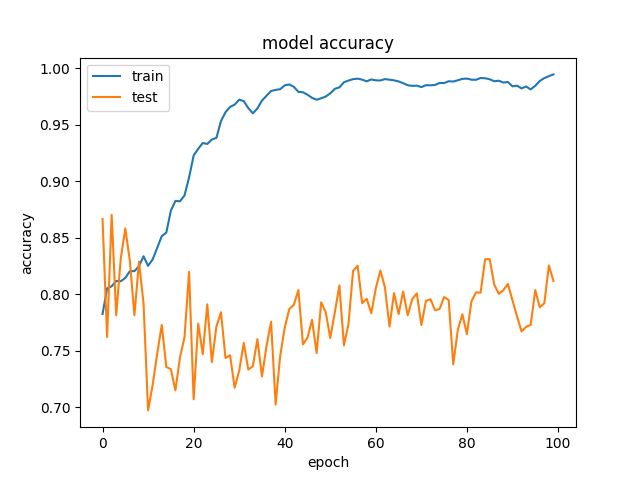
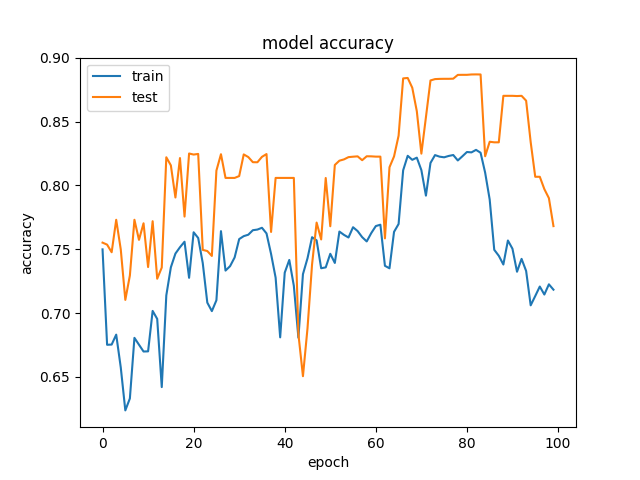
75

diff --git a/one_gpu_nih.py b/one_gpu_nih.py
@@ -114,7 +114,7 @@ model.add(GlobalAveragePooling2D())
 model.add(Dropout(0.3))
 model.add(Dense(512))
 model.add(Dropout(0.3))
-model.add(Dense(len(all_labels), activation='relu'))
+model.add(Dense(len(all_labels), activation='hard_sigmoid'))
 model.compile(loss='binary_crossentropy', optimizer='adam', metrics=['accuracy'])
 model.summary()
 
